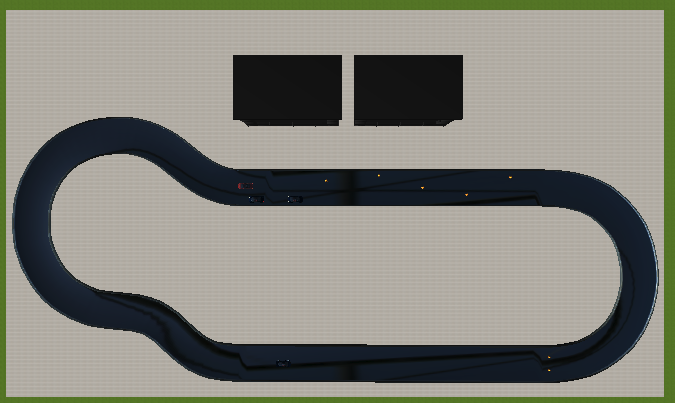
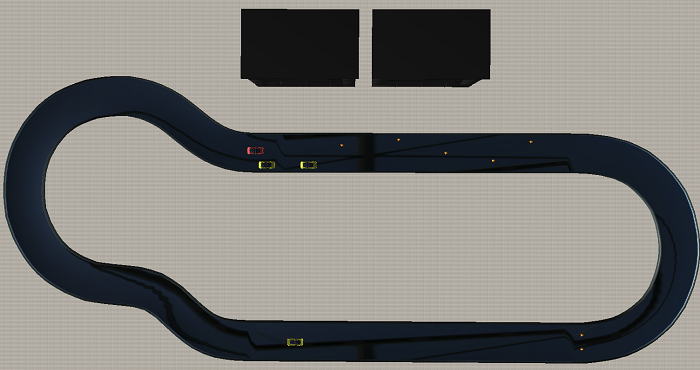
Update the cars' colors, added windows scroll, changed image tutorial 11 description

diff --git a/index.html b/index.html
@@ -7,7 +7,9 @@
     <style>
         body {
             margin: 0px;
-            overflow: hidden;
+            overflow: scroll;
+            width: 1600px; 
+            height: 900px;
         }
     </style>
     <script src="js-libs/jszip.min.js"></script>
@@ -15,10 +17,11 @@
 
 <body>
     <div>
+    <div>
         <div class="column">
             <!-- <iframe onload="cleanOnLoad()" id="ide" src="onlineIDE/api/load.html?mountPoint=[EmbeddedMontiArc]/demonstrator/IDE"
                 height="900" scrolling="no" width="900" align="left"></iframe> -->
-            <iframe id="ide-frame" src="ide/index.html?root=/controllers&mode=load" height="900" scrolling="no" width="900" align="left"></iframe>
+            <iframe id="ide-frame" src="ide/index.html?root=/controllers&mode=load" height="900" width="900" align="left"></iframe>
         </div>
         <div id="rightSide1" class="column">
             <div class="row">
@@ -58,10 +61,16 @@
                 <th><button onclick="showTutorial()"><b>Step 2:</b> Show tutorial/simulator</button></th>
                 <th><button id="start" onclick="readAllFiles()"><b>Step 3:</b> Read, pack and send files</button></th>
                 <th><button onclick="compare()"><b>Step 4:</b> Compare Trajectories</button></th>
+                <!-- <th><button onclick="showTraceDrawer()">Draw trace</button></th> -->
             </tr>
         </table>
     </div>
+</div>
     <script>
+
+        function showTraceDrawer() {
+            window.open("traceDrawer.html");
+        }
 
         async function getAPI(id) {
             return new Promise(resolve => {
@@ -770,8 +779,9 @@
 
                 var blob1 = new Blob([content], { type: 'application/octet-binary' });
                 var xhr = new XMLHttpRequest();
-                xhr.open("POST", 'http://137.226.168.11:80/receiver/', true);
-                //xhr.open("POST", 'http://0.0.0.0:7070/receiver/', true);
+                //xhr.open("POST", 'http://137.226.168.11:80/receiver/', true);
+                xhr.open("POST", 'http://137.226.168.153:3005/receiver/', true);
+                // xhr.open("POST", 'http://0.0.0.0:7070/receiver/', true);
                 xhr.send(blob1);
                 console.log("files were sent to the server, waiting for responce...");
                 // TODO: why the server does not set response type?

diff --git a/simulator.html b/simulator.html
@@ -361,7 +361,7 @@
 					if (objectCar == 0)
 						setColor(materialRed, housing[i]);
 					else
-						setColor(materialBlue, housing[i]);
+						setColor(materialBlack, housing[i]);
 				}
 				var darkChromeObjects = [dashboardDisplay, rightMirror, leftMirror, engine, pipes, logo, steel, wheelBackLeft, wheelBackRight, wheelFrontLeft, wheelFrontRight]
 				for (var i = 0; i < darkChromeObjects.length; i++) {
@@ -559,8 +559,8 @@
 
 		// Materials
 		var materialBlue = new THREE.MeshLambertMaterial({ color: 0x001133, envMap: reflectionCube, combine: THREE.MultiplyOperation });
-		var materialBlack = new THREE.MeshLambertMaterial({ color: 0x000000, envMap: reflectionCube, combine: THREE.MixOperation, reflectivity: 0.15 });
-		var materialRed = new THREE.MeshLambertMaterial({ color: 0x660000, envMap: reflectionCube, combine: THREE.MixOperation, reflectivity: 0.25 });
+		var materialBlack = new THREE.MeshLambertMaterial({ color: 0xffff00, envMap: reflectionCube, combine: THREE.MixOperation, reflectivity: 0.15 });
+		var materialRed = new THREE.MeshLambertMaterial({ color: 0xff4c4c, envMap: reflectionCube, combine: THREE.MixOperation, reflectivity: 0.01 });
 
 		var darkChrome = new THREE.MeshLambertMaterial({ color: 0x444444, envMap: reflectionCube });//darkdarkChrome
 		var pureChrome = new THREE.MeshLambertMaterial({ color: 0xffffff, envMap: reflectionCube });
